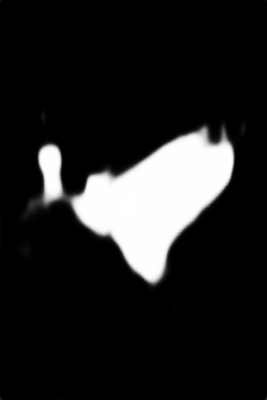
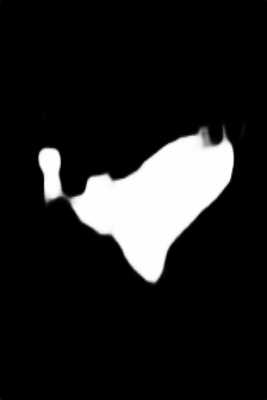
发现了很多有意思的参数调整

diff --git a/basic_ASPP_U_EDGE/model.py b/basic_ASPP_U_EDGE/model.py
@@ -2,6 +2,24 @@ import torch
 import torch.nn as nn
 from torchvision.models import resnet18, ResNet18_Weights
 
+# 轻量级SE模块
+class SEBlock(nn.Module):
+    def __init__(self, channel, reduction=16):
+        super(SEBlock, self).__init__()
+        self.avg_pool = nn.AdaptiveAvgPool2d(1)
+        self.fc = nn.Sequential(
+            nn.Linear(channel, channel // reduction),
+            nn.ReLU(inplace=True),
+            nn.Linear(channel // reduction, channel),
+            nn.Sigmoid()
+        )
+    
+    def forward(self, x):
+        b, c, _, _ = x.size()
+        y = self.avg_pool(x).view(b, c)  
+        y = self.fc(y).view(b, c, 1, 1)
+        return x * y.expand_as(x)
+
 # 定义 ASPP 模块
 class ASPP(nn.Module):
     def __init__(self, in_channels, out_channels):
@@ -54,7 +72,7 @@ class ASPP(nn.Module):
 
         return out
 
-# 显著性模型主结构（增加边缘输出）
+# 显著性模型主结构
 class SaliencyModel(nn.Module):
     def __init__(self, pretrained=True):
         super(SaliencyModel, self).__init__()
@@ -67,6 +85,13 @@ class SaliencyModel(nn.Module):
         self.layer2 = backbone.layer2
         self.layer3 = backbone.layer3
         self.layer4 = backbone.layer4
+        
+        # 在ResNet的每个残差块后添加SE模块
+        self.se1 = SEBlock(64)   # 对应conv1输出
+        self.se2 = SEBlock(64)   # 对应layer1输出
+        self.se3 = SEBlock(128)  # 对应layer2输出
+        self.se4 = SEBlock(256)  # 对应layer3输出
+        self.se5 = SEBlock(512)  # 对应layer4输出
 
         self.aspp = ASPP(in_channels=512, out_channels=256)
 
@@ -92,14 +117,26 @@ class SaliencyModel(nn.Module):
         self.relu = nn.ReLU(inplace=True)
 
     def forward(self, x):
+        # 编码器部分
         x1 = self.conv1(x)
+        x1 = self.se1(x1)  # 添加SE
+        
         x2 = self.layer1(self.maxpool(x1))
+        x2 = self.se2(x2)  # 添加SE
+        
         x3 = self.layer2(x2)
+        x3 = self.se3(x3)  # 添加SE
+        
         x4 = self.layer3(x3)
+        x4 = self.se4(x4)  # 添加SE
+        
         x5 = self.layer4(x4)
+        x5 = self.se5(x5)  # 添加SE
 
+        # ASPP模块
         x5_aspp = self.aspp(x5)
 
+        # 解码器部分
         d4 = self.relu(self.up4(x5_aspp))
         d4 = torch.cat([d4, x4], dim=1)
         d4 = self.relu(self.conv_up4(d4))
@@ -119,6 +156,7 @@ class SaliencyModel(nn.Module):
         d0 = self.relu(self.up0(d1))
         d0 = self.relu(self.conv_up0(d0))
 
+        # 输出头
         saliency_out = self.final_conv(d0)
         saliency_out = self.sigmoid(saliency_out)
 

diff --git a/basic_ASPP_U_EDGE/main.py b/basic_ASPP_U_EDGE/main.py
@@ -31,14 +31,14 @@ def hybrid_loss(preds, targets, bce_fn):
 
 # 简易边缘标签生成
 def get_edge_label(mask):
-    kernel = torch.ones((1, 1, 3, 3), device=mask.device)
-    pad = 1
-    eroded = F.conv2d(mask, kernel, padding=pad)
-    eroded = (eroded == 9).float()
-    edge = mask - eroded
-    edge = edge.clamp(min=0)
-    return edge
-
+    # 水平/垂直方向梯度
+    kernel_x = torch.tensor([[[[-1, 0, 1], [-2, 0, 2], [-1, 0, 1]]]], device=mask.device).float()
+    kernel_y = kernel_x.transpose(2, 3)
+    
+    grad_x = F.conv2d(mask, kernel_x, padding=1)
+    grad_y = F.conv2d(mask, kernel_y, padding=1)
+    edge = torch.sqrt(grad_x**2 + grad_y**2)
+    return (edge > 0.1).float()
 
 def save_predictions(model, dataloader, device, output_dir, original_image_dir):
     os.makedirs(output_dir, exist_ok=True)
@@ -89,11 +89,11 @@ def main():
     test_loader = DataLoader(test_dataset, batch_size=8, shuffle=False)
 
     model = SaliencyModel(pretrained=True).to(device)
-    optimizer = optim.Adam(model.parameters(), lr=1e-4)
+    optimizer = optim.Adam(model.parameters(), lr=5e-5)
     bce_fn = nn.BCELoss()
 
-    epochs = 30
-    edge_loss_weight = 0.5  # λ 边缘损失权重
+    epochs = 50
+    edge_loss_weight = 0.6  # λ 边缘损失权重
 
     train_losses = []
     test_mae_list = []
